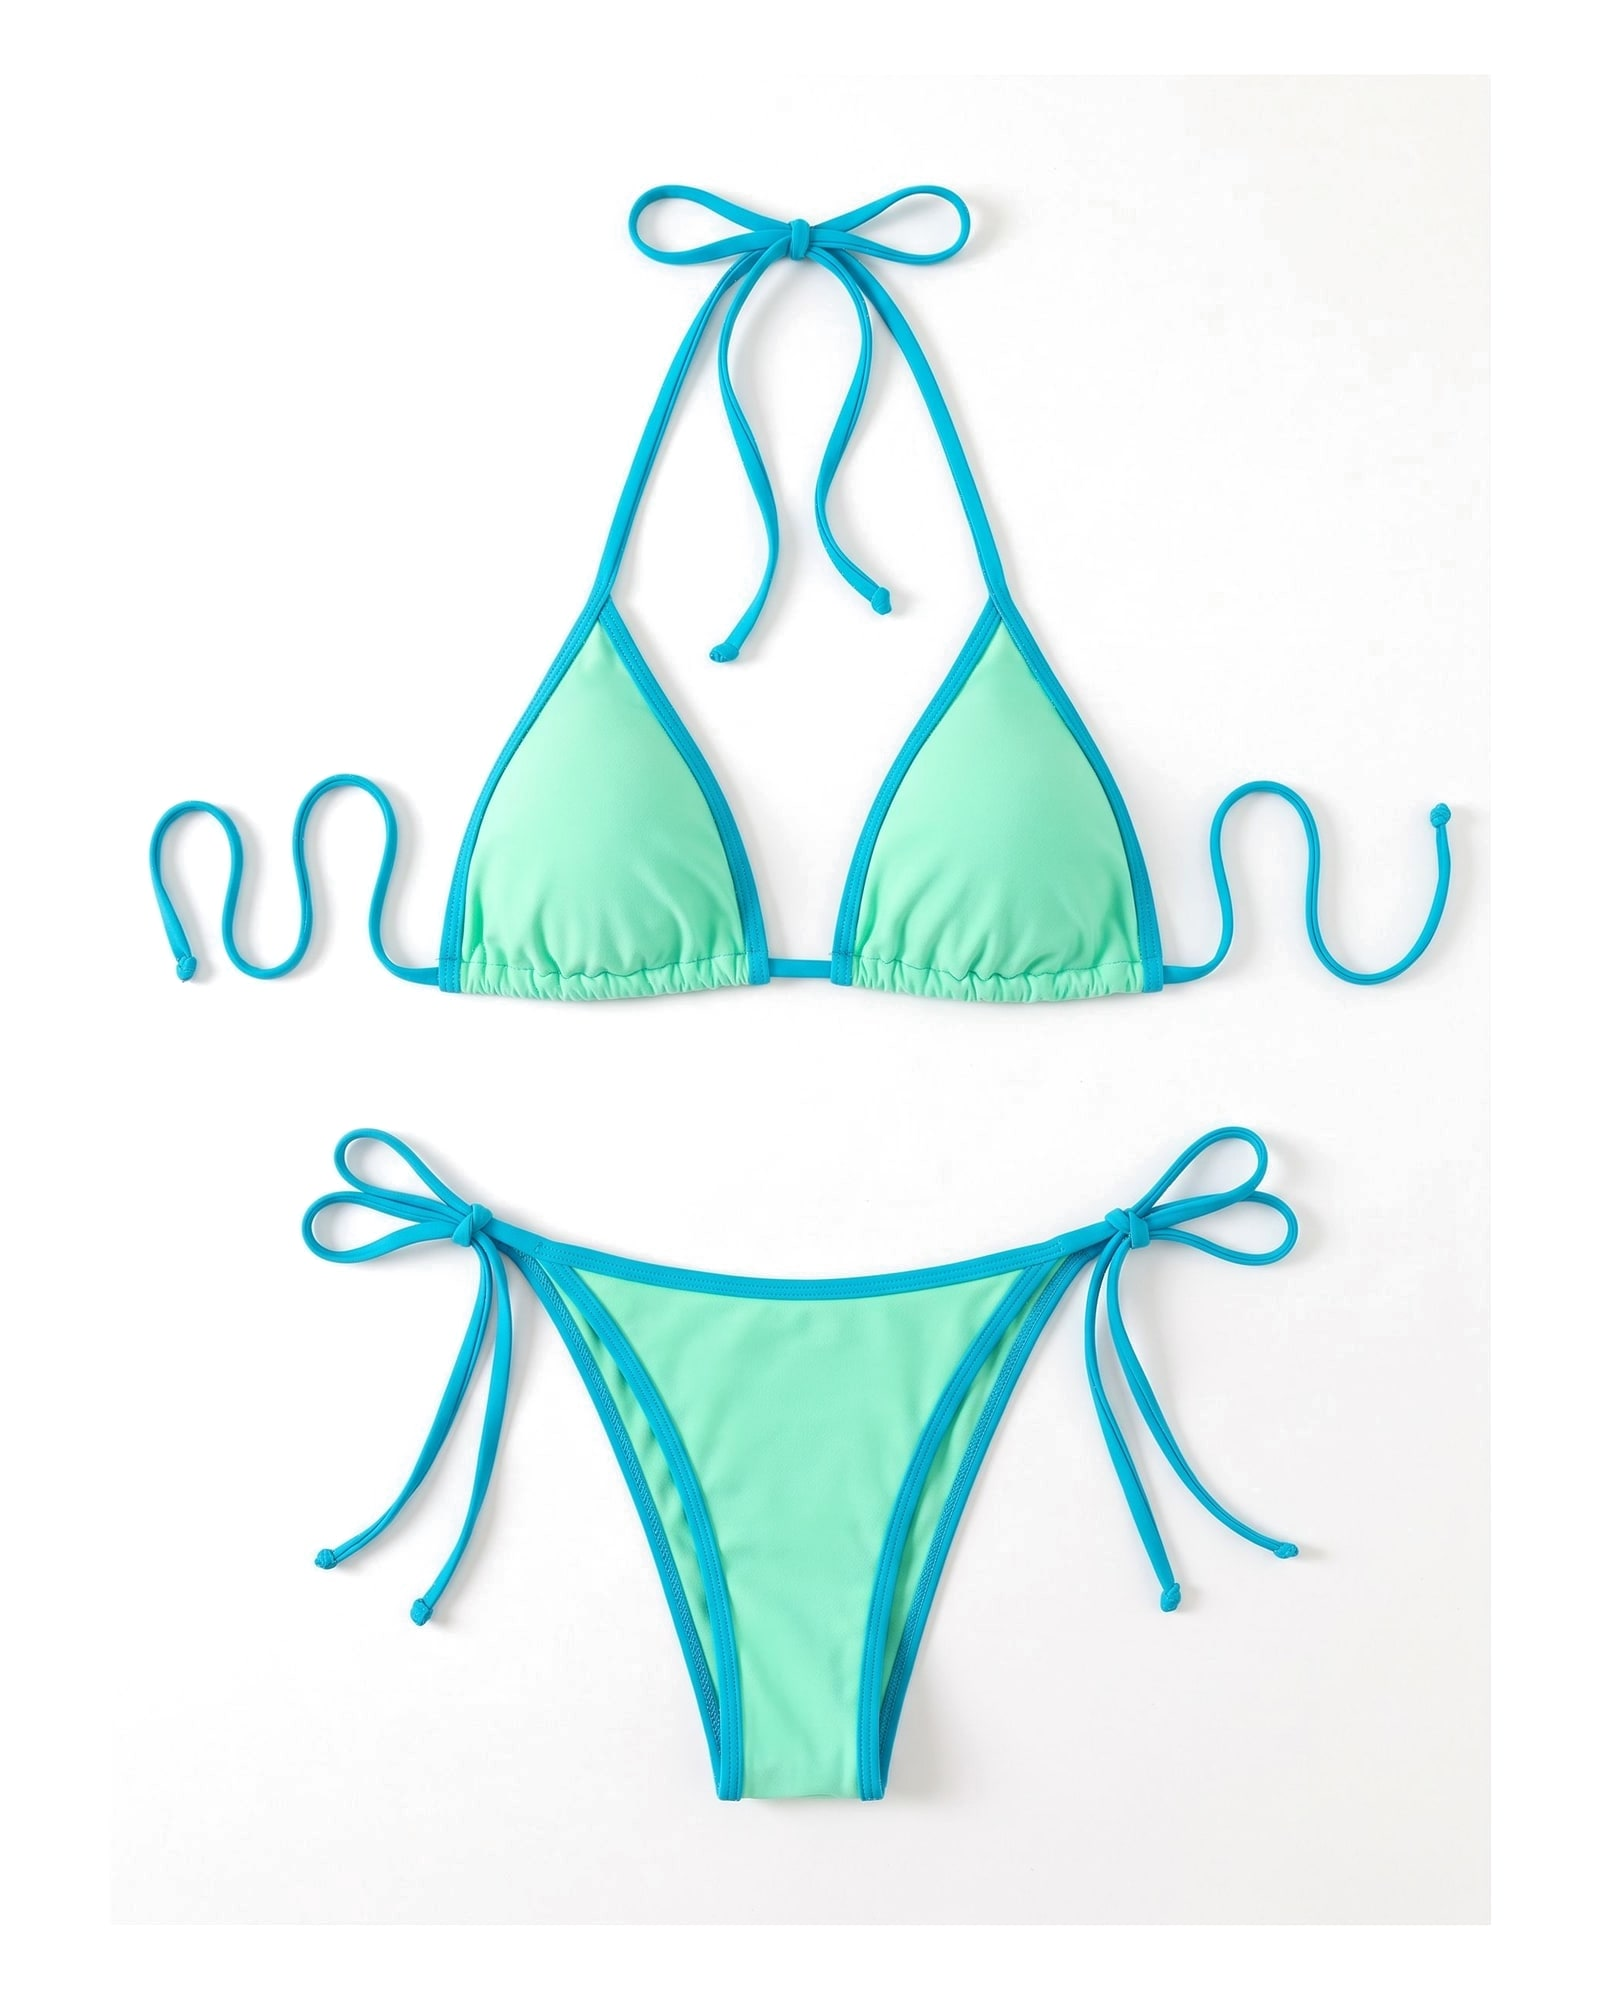
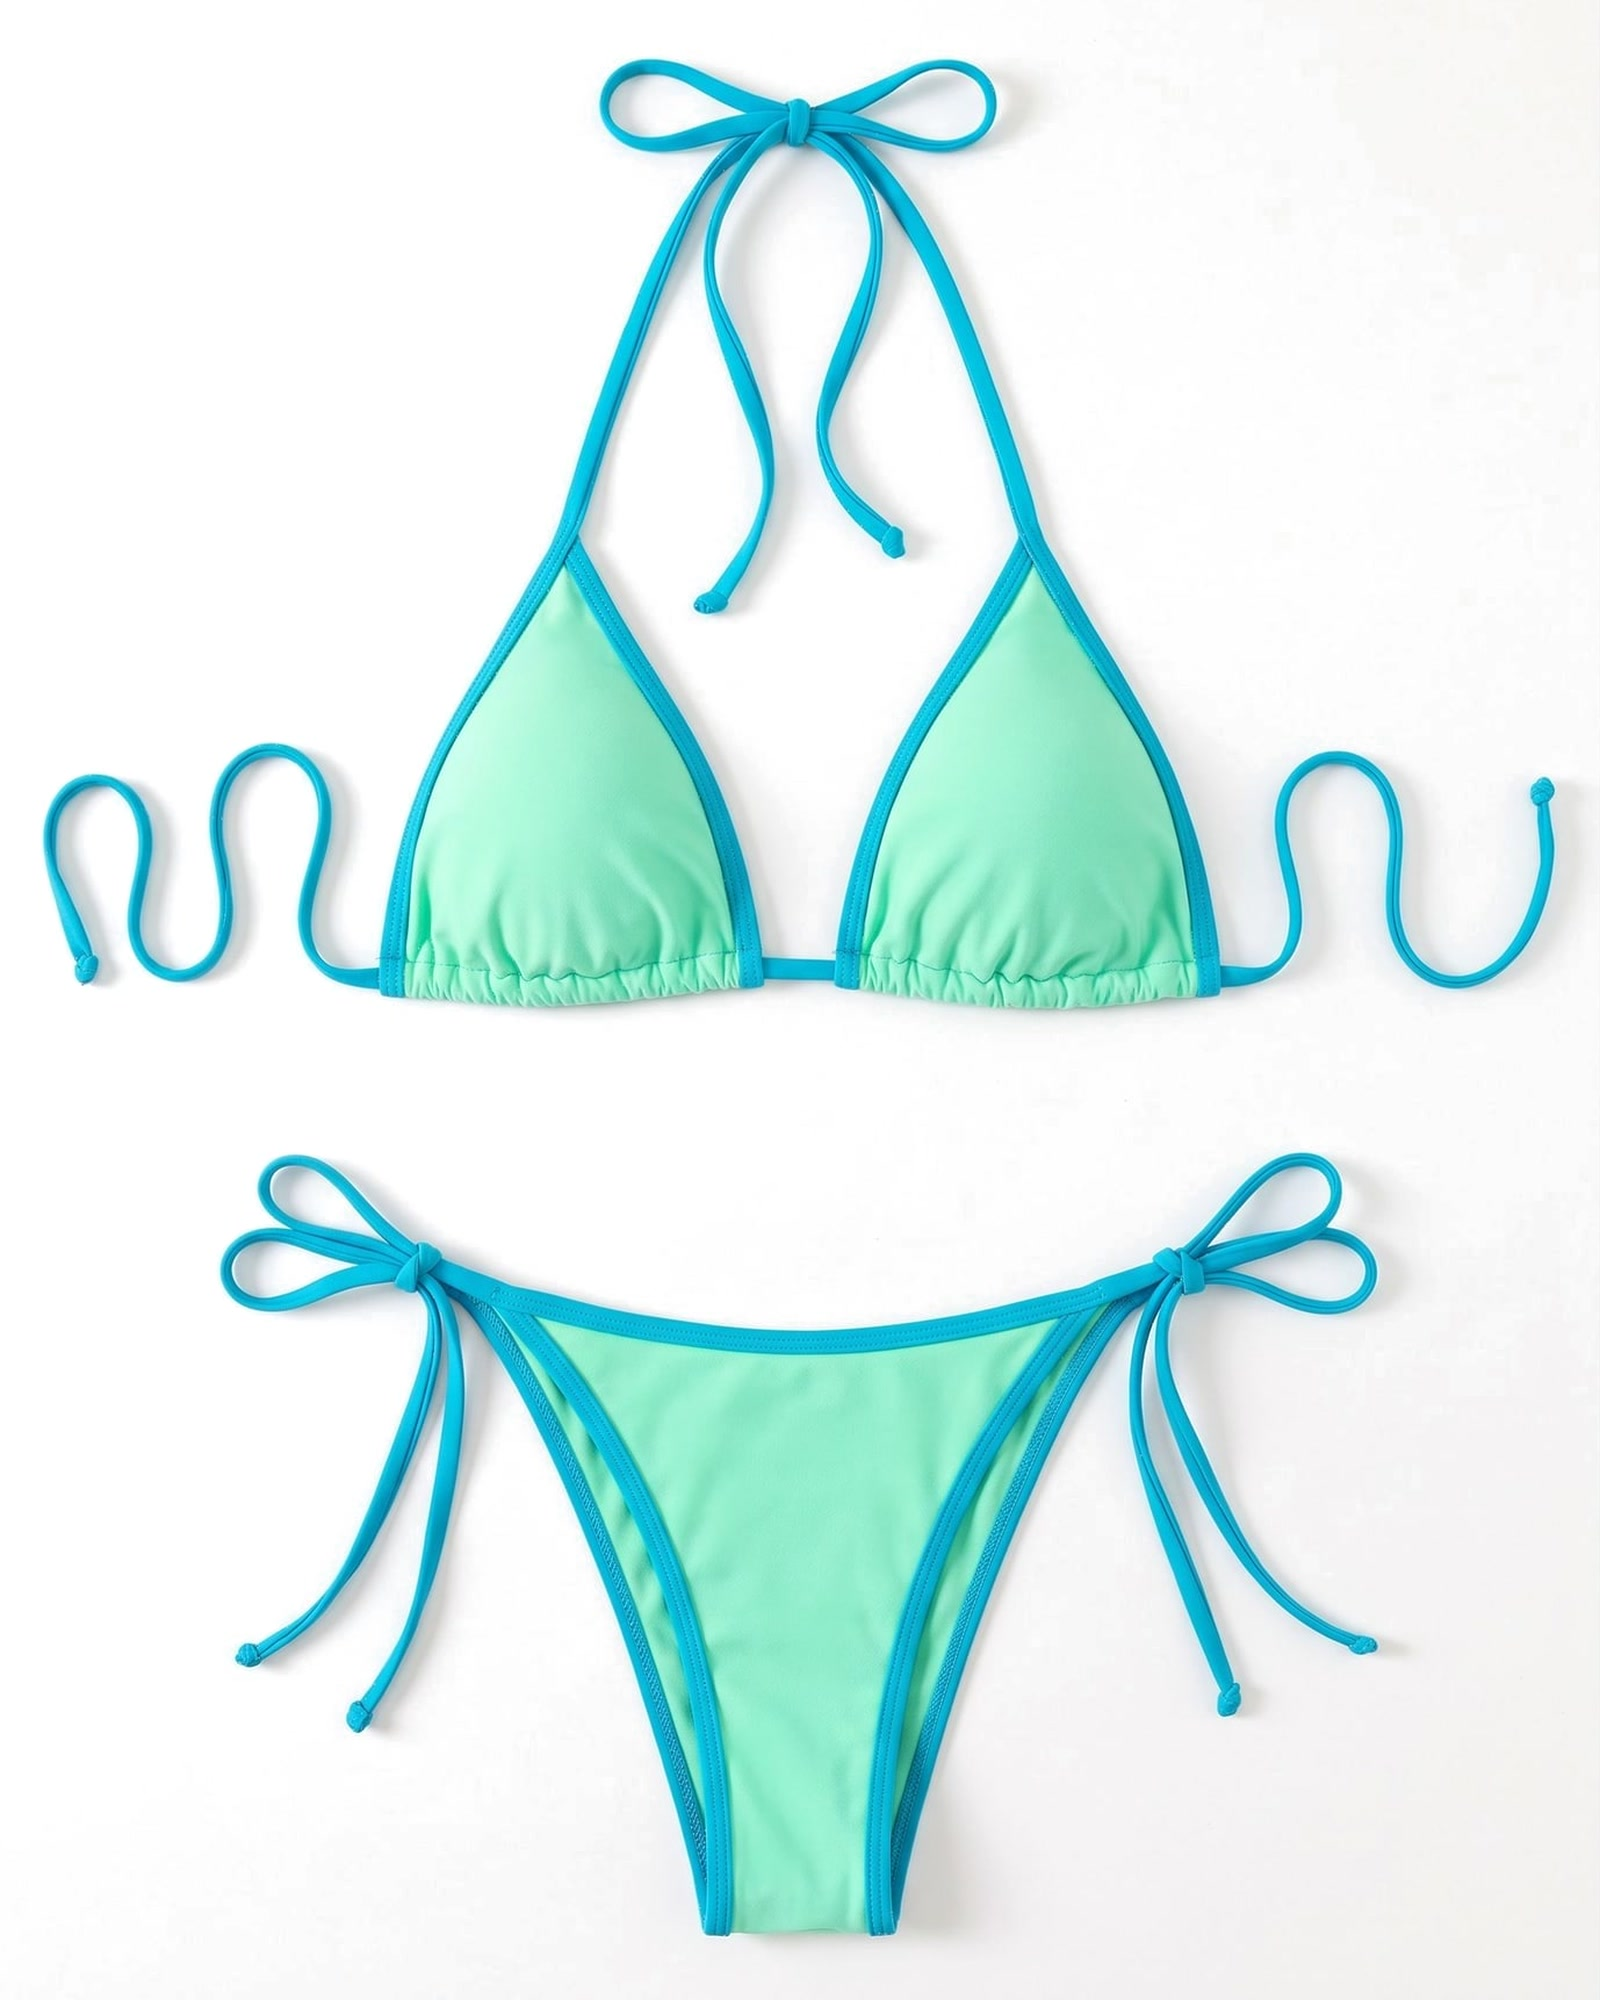
Duo-Bikini: weissen Rand um die Packshots Blau/Grün und Weiss/Schwarz entfernt
Bild auf den grauen Fotohintergrund zugeschnitten (4:5) und wieder auf
1600x2000 vergrössert; IMAGE_VERSION hochgezählt, damit Google die
neuen Bilder holt.

diff --git a/src/app/feed/google.xml/route.ts b/src/app/feed/google.xml/route.ts
@@ -65,7 +65,7 @@ function absolute(path: string): string {
  * austauscht oder bearbeitet, erhöht diesen Wert — dann lädt Google alle
  * Bilder beim nächsten Feed-Abruf frisch.
  */
-const IMAGE_VERSION = "2026-10-13";
+const IMAGE_VERSION = "2026-10-18";
 const imageUrl = (path: string) => `${absolute(path)}?v=${IMAGE_VERSION}`;
 
 const OVERRIDES = imageOverrides as Record<string, Record<string, string>>;
